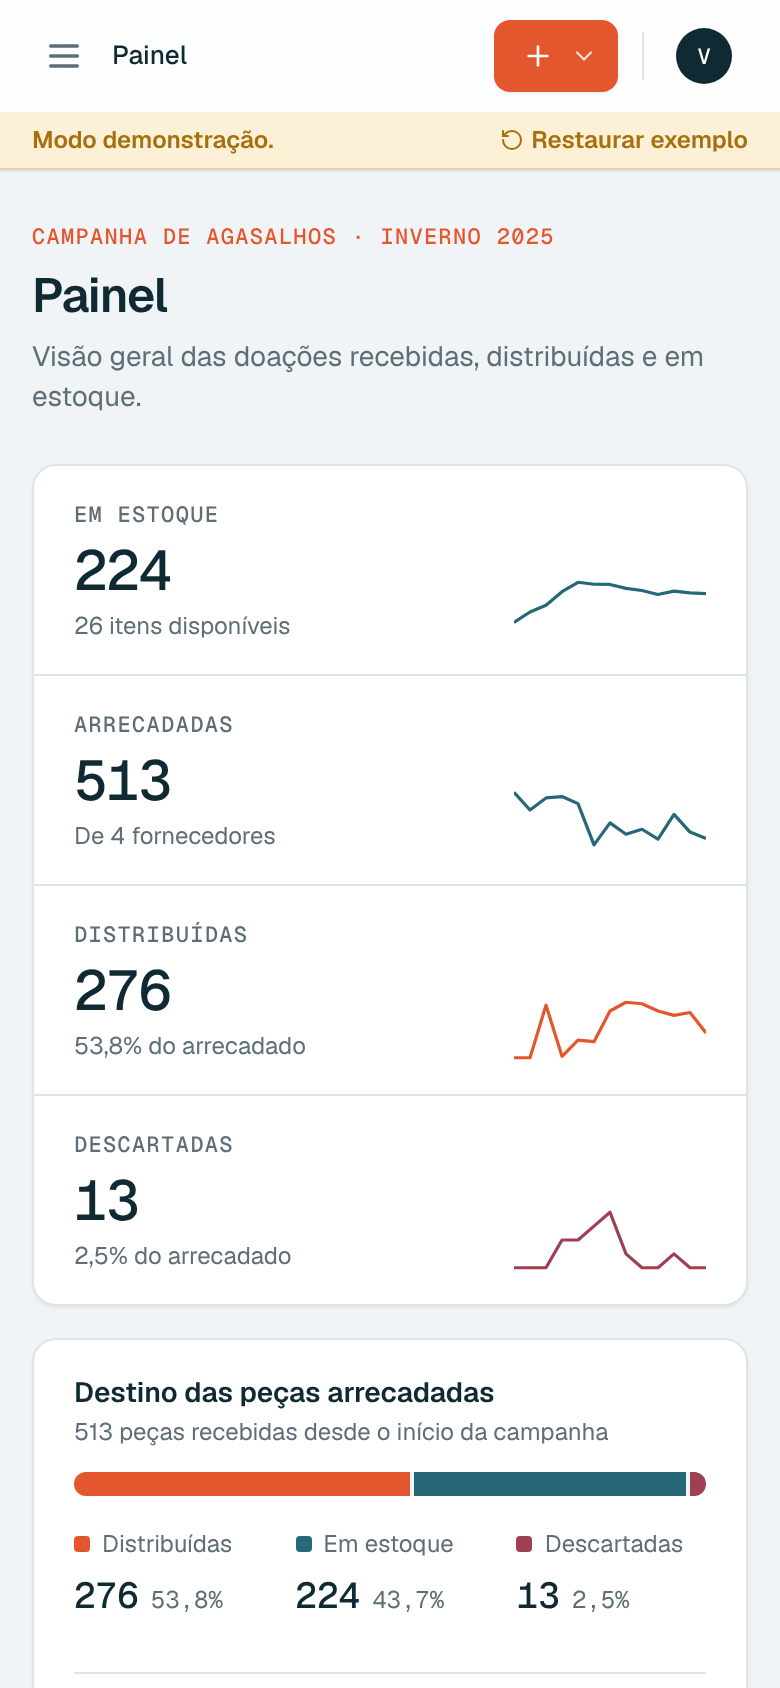
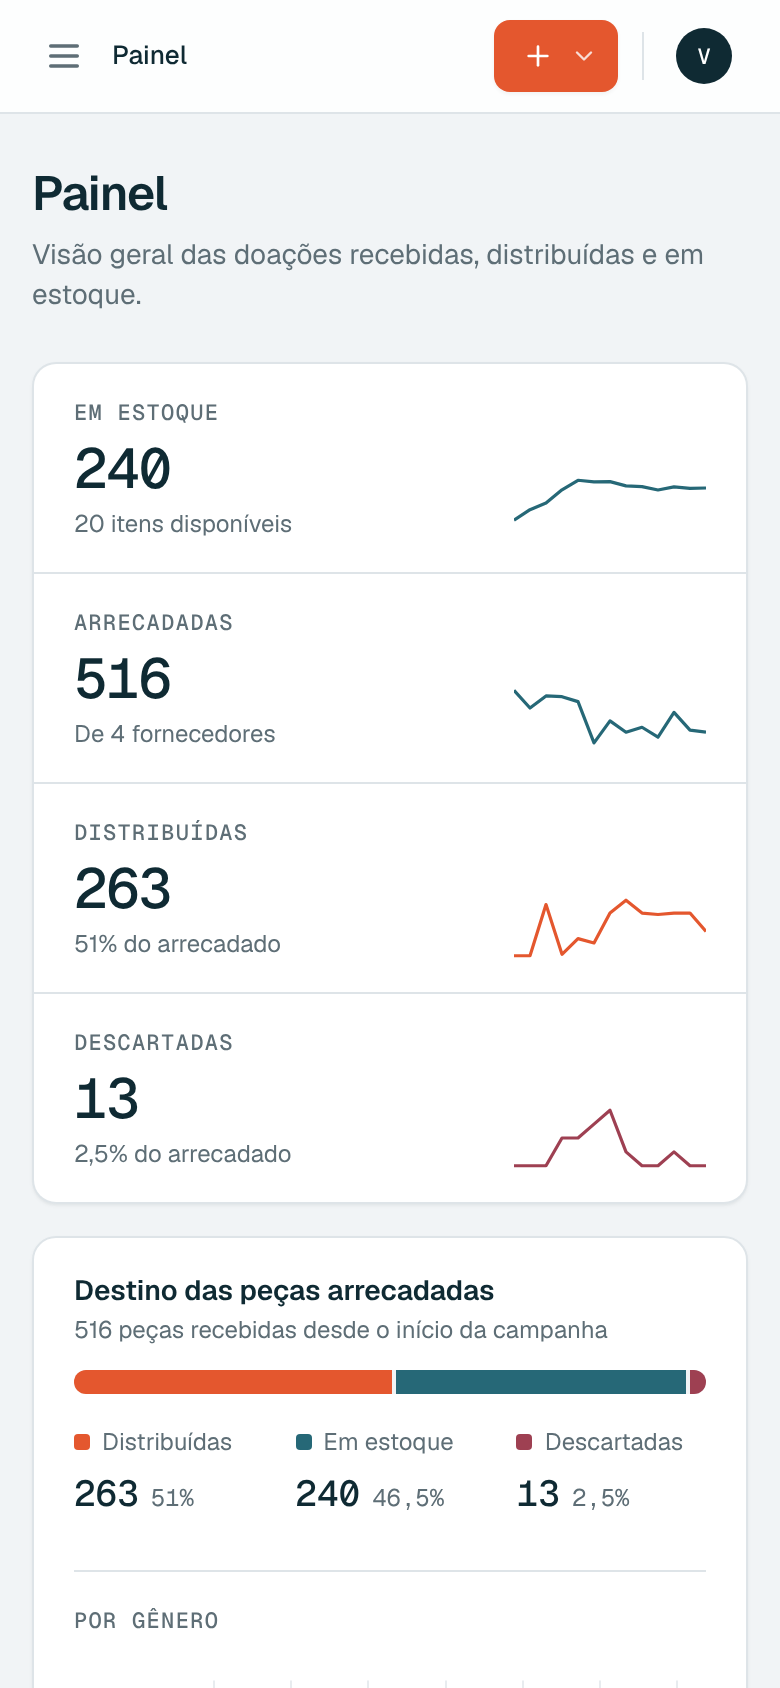
README no modelo do portfólio e capturas de tela atualizadas
Cabeçalho centralizado com capa, selos e links; sumário, destaques,
tecnologias com o porquê de cada escolha, estrutura comentada, diagramas
de como o sistema funciona, segurança, acessibilidade e assinatura.
As capturas mostram a versão atual (novos tamanhos, menu e topo).

Claude-Session: https://claude.ai/code/session_016y4j8LLPrQbPcBCuWRGPBY

diff --git a/README.md b/README.md
@@ -1,123 +1,226 @@
-# Logística que Aquece
+<div align="center">
 
-Sistema de controle de estoque da campanha de agasalhos **Logística que Aquece**, promovida pelo **SENAI** com a **Rede Feminina de Garopaba (SC)** no inverno de 2025.
+<img src="docs/telas/painel.png" alt="Painel do sistema: indicadores de estoque, arrecadação, distribuição e descarte, com gráficos por semana, gênero e tipo de peça" width="100%">
 
-O sistema registra as roupas recebidas como doação, controla o que sai para distribuição e o que é descartado na triagem, e mantém o estoque de cada peça sempre atualizado, com relatórios que dão transparência a todo o processo. Foi o primeiro sistema que desenvolvi.
+# Logística que Aquece · Controle de estoque
 
-![Painel](docs/telas/painel.png)
+**Campanha de agasalhos do SENAI com a Rede Feminina de Garopaba (SC)** · inverno de 2025
+
+Sistema que registra as roupas recebidas como doação, o que sai para distribuição e o que é descartado na triagem, mantendo o estoque de cada peça sempre atualizado e com relatórios que dão transparência a todo o processo. Foi o primeiro sistema que desenvolvi.
+
+[![Site no ar](https://img.shields.io/badge/site-logisticaqueaquece.vercel.app-E4572E?style=for-the-badge)](https://logisticaqueaquece.vercel.app)
+[![CI](https://img.shields.io/github/actions/workflow/status/higornovocardoso/Logisteca-que-Aquece/ci.yml?branch=main&label=testes&style=for-the-badge)](https://github.com/higornovocardoso/Logisteca-que-Aquece/actions/workflows/ci.yml)
+[![React + Supabase](https://img.shields.io/badge/React_+_Supabase-0F2A33?style=for-the-badge)](#tecnologias)
+
+[**Ver o site**](https://logisticaqueaquece.vercel.app) · [LinkedIn](https://www.linkedin.com/in/higornovocardoso) · [GitHub](https://github.com/higornovocardoso)
+
+</div>
 
 > **Sobre esta versão:** o código original se perdeu depois da campanha. Este repositório é uma **reconstrução** feita a partir da configuração original do projeto, de capturas de tela do sistema usado na campanha e das funcionalidades que ele tinha, agora com melhorias e um visual novo.
 
-## Funcionalidades
+---
 
-**Operação**
-- **Entradas:** registro das doações por tipo de peça, tamanho, gênero, quantidade, fornecedor e responsável. A opção *Continuar registrando* agiliza o lançamento de várias peças em sequência na mesa de triagem.
-- **Saídas:** retiradas para distribuição, com responsável. O sistema impede retirar mais peças do que há em estoque.
-- **Descartes:** peças sem condições de uso, com o motivo (rasgada, manchada, com mofo…).
-- **Estoque:** saldo de cada item com código próprio (ex.: `CAS-F-M` = casaco feminino M), filtros, alertas de estoque baixo e esgotado, e atalhos para registrar a saída ou o descarte direto da linha.
-- **Registro rápido:** botão *Registrar* em todas as telas e atalhos de teclado <kbd>E</kbd>, <kbd>S</kbd> e <kbd>D</kbd>.
+## Sumário
 
-**Gestão**
-- **Painel:** indicadores com tendência semanal, o destino de todas as peças arrecadadas (distribuídas, em estoque e descartadas), gráficos por tipo, gênero, fornecedor e motivo de descarte, estoque crítico e últimos registros.
-- **Relatórios:** movimentações, resumo por tipo de peça, posição de estoque e doações por fornecedor, com filtro de período e exportação em **PDF**, **Excel** e **CSV**.
-- **Meu perfil:** cada usuário, administrador ou operador, altera o próprio nome, o nome de usuário usado no login e a senha (essas duas últimas confirmando a senha atual).
-- **Administração:** usuários com perfil (*Administrador* ou *Operador*), registro de todas as atividades (quem fez o quê e quando), backup em JSON, importação de backup e limpeza dos dados para uma nova campanha.
+- [Destaques](#destaques)
+- [Capturas de tela](#capturas-de-tela)
+- [Tecnologias](#tecnologias)
+- [Estrutura do projeto](#estrutura-do-projeto)
+- [Como funciona](#como-funciona)
+- [Rodando localmente](#rodando-localmente)
+- [Conectando ao Supabase](#conectando-ao-supabase)
+- [Qualidade e automação](#qualidade-e-automação)
+- [Segurança](#segurança)
+- [Acessibilidade e desempenho](#acessibilidade-e-desempenho)
 
-**Segurança**
-- Login com no máximo 5 tentativas a cada 15 minutos, com bloqueio temporário e contagem regressiva.
-- Senhas guardadas apenas como hash (PBKDF2 no modo demonstração e bcrypt no Supabase).
-- Permissões por perfil: operadores registram, administradores também excluem registros, gerenciam usuários e dados.
-- No Supabase, as regras ficam no próprio banco: políticas de acesso (RLS) e gatilhos que impedem estoque negativo, garantem a autoria do registro de atividades e impedem que alguém mude o próprio perfil de acesso.
-- O autor e o horário de cada registro são definidos pelo servidor; contas criadas fora do sistema ficam sem acesso até um administrador liberar.
-- Exportações em CSV neutralizam fórmulas de planilha, e backups são validados com as mesmas regras do banco antes da importação.
-- Cabeçalhos de segurança na Vercel: Content-Security-Policy, HSTS, Permissions-Policy e proteção contra iframes.
+## Destaques
+
+- **Entradas, saídas e descartes.** Cada doação é registrada por tipo de peça, tamanho (Infantil, PP, P, M, G e GG; "Único" para acessórios), gênero, quantidade, fornecedor e quem recebeu. Saídas não passam do que há em estoque, e descartes guardam o motivo (rasgado, manchado, com mofo…).
+- **Estoque sempre certo.** O saldo de cada peça é calculado a partir das movimentações, com código próprio (`CAS-F-M` = casaco feminino M), alertas de estoque baixo e esgotado e atalhos para registrar a saída direto da linha.
+- **Registro rápido.** O botão *Registrar* está em todas as telas, as teclas <kbd>E</kbd>, <kbd>S</kbd> e <kbd>D</kbd> abrem cada formulário, <kbd>/</kbd> leva à busca e *Continuar registrando* agiliza a mesa de triagem.
+- **Painel.** Indicadores com tendência semanal, o destino de todas as peças arrecadadas, gráficos por tipo, gênero, fornecedor e motivo de descarte, estoque crítico e últimos registros.
+- **Relatórios.** Movimentações, resumo por tipo de peça, posição de estoque e doações por fornecedor, com filtro de período e exportação em **PDF**, **Excel** e **CSV**.
+- **Administração.** Usuários com perfil (*Administrador* ou *Operador*), registro de tudo o que foi feito (quem, o quê e quando), backup em JSON e limpeza dos dados para uma nova campanha.
+- **Meu perfil.** Cada pessoa altera o próprio nome, o nome de usuário e a senha; o administrador também troca o nome de usuário de qualquer um.
+- **Dois modos.** Conectado ao Supabase em produção ou, sem configurar nada, em modo demonstração com os dados de exemplo da campanha salvos no navegador.
+
+## Capturas de tela
 
 | Estoque | Relatórios |
 | --- | --- |
-| ![Estoque](docs/telas/estoque.png) | ![Relatórios](docs/telas/relatorios.png) |
+| <img src="docs/telas/estoque.png" alt="Tabela de estoque com código, peça, tamanho, entradas, saídas, saldo e situação de cada item"> | <img src="docs/telas/relatorios.png" alt="Tela de relatórios com filtro de período e exportação em PDF, Excel e CSV"> |
 
 | Registro de entrada | Administração |
 | --- | --- |
-| ![Registro de entrada](docs/telas/registro.png) | ![Administração](docs/telas/administracao.png) |
+| <img src="docs/telas/registro.png" alt="Formulário de registro de entrada de doação"> | <img src="docs/telas/administracao.png" alt="Gestão de usuários com perfil e situação de cada pessoa"> |
 
 | Tema escuro | Login |
 | --- | --- |
-| ![Painel no tema escuro](docs/telas/painel-escuro.png) | ![Login](docs/telas/login.png) |
+| <img src="docs/telas/painel-escuro.png" alt="Painel no tema escuro"> | <img src="docs/telas/login.png" alt="Tela de login com a logo do SENAI"> |
 
-<p align="center"><img src="docs/telas/celular.png" alt="Painel no celular" width="280"></p>
+<p align="center">
+  <img src="docs/telas/celular.png" alt="Painel no celular" width="300">
+</p>
 
 ## Tecnologias
 
-| Camada           | Ferramentas                                                      |
-| ---------------- | ---------------------------------------------------------------- |
-| Front-end        | React 18, TypeScript, Vite, React Router                         |
-| Interface        | Tailwind CSS, Framer Motion, Lucide Icons, fontes Geist          |
-| Back-end / dados | Supabase (PostgreSQL, Auth, RLS)                                 |
-| Gráficos         | Chart.js, react-chartjs-2                                        |
-| Relatórios       | jsPDF + AutoTable (PDF), SheetJS (Excel), PapaParse (CSV)        |
-| Validação        | Zod                                                              |
-| Qualidade        | ESLint, TypeScript (`strict`), Vitest, GitHub Actions            |
+| Camada | Escolha | Por quê |
+| --- | --- | --- |
+| Interface | React 18 + TypeScript (`strict`), Vite e React Router | Telas tipadas de ponta a ponta e build rápido, com cada página carregada sob demanda |
+| Visual | Tailwind CSS com tokens de cor próprios, fontes Geist e Lucide Icons | Tema claro e escuro a partir das mesmas variáveis; números alinhados em fonte mono |
+| Movimento | Framer Motion | Transições curtas e com propósito, desligadas quando o sistema pede menos movimento |
+| Dados | [Supabase](https://supabase.com): PostgreSQL, Auth, RLS e Edge Function | As regras ficam no próprio banco, não só na tela |
+| Gráficos | Chart.js com react-chartjs-2 | Leve e fácil de adaptar às cores do tema |
+| Relatórios | jsPDF + AutoTable, SheetJS e PapaParse | PDF, Excel e CSV gerados no navegador, carregados só quando alguém exporta |
+| Validação | Zod | As mesmas regras nos formulários, no backup e no banco |
+| Hospedagem | [Vercel](https://vercel.com) | Publica sozinha a cada push na `main` |
+| Qualidade | ESLint, Vitest e GitHub Actions | Lint, testes e build a cada push e pull request |
 
-## Como rodar
+## Estrutura do projeto
 
-Pré-requisito: [Node.js](https://nodejs.org/) 20 ou superior.
-
-```bash
-npm install
-npm run dev
+```text
+.
+├── src/
+│   ├── App.tsx                 # rotas e provedores (tema, avisos, sessão)
+│   ├── paginas.ts              # páginas carregadas sob demanda e pré-carregamento
+│   ├── components/
+│   │   ├── Layout.tsx          # menu lateral, topo, menu do usuário e transições
+│   │   ├── Registro.tsx        # formulários de entrada, saída e descarte (atalhos E, S e D)
+│   │   ├── MeuPerfil.tsx       # nome, nome de usuário e senha da própria conta
+│   │   └── ui.tsx              # modal, campos, abas, esqueletos e números animados
+│   ├── pages/                  # Login, Painel, Entradas/Saídas/Descartes, Estoque, Relatórios, Administração
+│   ├── contexts/               # sessão, estoque, tema e avisos
+│   ├── data/
+│   │   ├── fonte.ts            # contrato comum às duas fontes de dados
+│   │   ├── fonteSupabase.ts    # produção: Supabase
+│   │   ├── fonteLocal.ts       # modo demonstração: navegador
+│   │   ├── servico.ts          # registro de atividades e limite de tentativas de login
+│   │   └── seed.ts             # dados de exemplo da campanha
+│   └── lib/                    # regras de estoque, validação, relatórios, backup e códigos dos itens
+├── supabase/
+│   ├── schema.sql              # tabelas, gatilhos e políticas de acesso (RLS)
+│   ├── functions/gerenciar-usuarios/  # Edge Function: criar, remover e renomear usuários, redefinir senha
+│   └── migracoes/              # mudanças aplicadas a bancos já existentes
+├── docs/telas/                 # capturas usadas neste README
+├── .github/workflows/ci.yml    # lint, testes e build a cada push
+└── vercel.json                 # cabeçalhos de segurança e rotas
 ```
 
-Acesse `http://localhost:5173`.
+## Como funciona
 
-### Modo demonstração
+### Duas fontes de dados, uma interface
 
-Sem configurar nada, o sistema roda em **modo demonstração**, com os dados de exemplo da campanha salvos no próprio navegador:
+```mermaid
+flowchart LR
+    T[Telas] --> S[servico.ts<br/>atividades e limite de login]
+    S --> F{fonte de dados}
+    F -->|.env preenchido| SB[(Supabase<br/>PostgreSQL + RLS)]
+    F -->|sem .env| LS[(navegador<br/>modo demonstração)]
+    SB -.-> EF[Edge Function<br/>gerenciar-usuarios]
+```
 
-| Perfil        | Usuário     | Senha       |
-| ------------- | ----------- | ----------- |
+As telas não sabem de onde vêm os dados: falam com um contrato único (`FonteDeDados`). Com as variáveis do Supabase preenchidas, tudo vai para o banco; sem elas, o sistema roda inteiro no navegador com os dados de exemplo da campanha. No meio, `servico.ts` registra cada ação no histórico e limita as tentativas de login.
+
+### O saldo nunca fica negativo
+
+O estoque não é um número guardado: é a soma das entradas menos as saídas e os descartes de cada peça, calculada pela view `estoque`. Um gatilho no banco confere o saldo depois de cada registro e recusa qualquer saída, descarte ou exclusão que o deixaria negativo, mesmo que alguém tente pela API, sem passar pela tela.
+
+### Quem pode o quê
+
+| Ação | Operador | Administrador |
+| --- | :---: | :---: |
+| Registrar entradas, saídas e descartes | ✓ | ✓ |
+| Consultar estoque, painel e relatórios | ✓ | ✓ |
+| Alterar o próprio nome, nome de usuário e senha | ✓ | ✓ |
+| Excluir registros | | ✓ |
+| Criar, editar e remover usuários | | ✓ |
+| Ver o registro de atividades, fazer backup e limpar dados | | ✓ |
+
+Cada linha vale também no banco, por políticas de RLS e gatilhos: esconder um botão nunca é a única proteção.
+
+## Rodando localmente
+
+Pré-requisito: [Node.js](https://nodejs.org) 20 ou mais novo.
+
+```bash
+git clone https://github.com/higornovocardoso/Logisteca-que-Aquece.git
+cd Logisteca-que-Aquece
+npm install
+npm run dev             # abre em http://localhost:5173
+```
+
+Sem configurar nada, o sistema abre em **modo demonstração**, com os dados de exemplo da campanha salvos no navegador:
+
+| Perfil | Usuário | Senha |
+| --- | --- | --- |
 | Administrador | `Visitante` | `Visitante` |
-| Operador      | `Marlene`   | `Marlene`   |
+| Operador | `Marlene` | `Marlene` |
 
-Em *Administração › Dados e backup*, o botão *Restaurar* desfaz as alterações.
+O botão *Restaurar exemplo* desfaz as alterações. O site publicado usa o banco de verdade, com acesso restrito à equipe.
 
-### Com o Supabase
+| Comando | O que faz |
+| --- | --- |
+| `npm run dev` | Servidor de desenvolvimento |
+| `npm run build` | Verificação de tipos e build de produção |
+| `npm run preview` | Serve o build de produção |
+| `npm test` | Testes automatizados (Vitest) |
+| `npm run lint` | Análise estática (ESLint) |
 
-1. Crie um projeto no [Supabase](https://supabase.com/) e execute o script [`supabase/schema.sql`](supabase/schema.sql) no SQL Editor.
-2. Publique a Edge Function de usuários: `supabase functions deploy gerenciar-usuarios`. Ela cria, remove e redefine a senha de usuários com a chave de serviço, que fica só no servidor.
+## Conectando ao Supabase
+
+1. Crie um projeto no [Supabase](https://supabase.com) e execute [`supabase/schema.sql`](supabase/schema.sql) no SQL Editor.
+2. Publique a Edge Function de usuários: `supabase functions deploy gerenciar-usuarios`. Ela usa a chave de serviço, que fica só no servidor.
 3. Em **Authentication › Sign In / Providers**, desative *Allow new users to sign up*: as contas são criadas apenas pelo sistema.
 4. Em **Authentication › Users**, crie o primeiro usuário com o e-mail `seunome@logisticaqueaquece.local` e libere-o como administrador no SQL Editor:
    ```sql
    update public.perfis set perfil = 'Administrador', ativo = true, nome = 'Seu Nome' where usuario = 'seunome';
    ```
-5. Copie o `.env.example` para `.env` e preencha a URL e a chave pública (*publishable* ou `anon`) do projeto. Ao publicar na Vercel, troque também o endereço do Supabase na `Content-Security-Policy` do [`vercel.json`](vercel.json).
-6. Entre no sistema usando só `seunome` como nome de usuário. Os demais usuários são criados em *Administração › Usuários*.
+5. Copie o `.env.example` para `.env` e preencha a URL e a chave pública (*publishable* ou `anon`). O `.env` não é versionado.
+6. Entre usando só `seunome` como nome de usuário. As demais pessoas são cadastradas em *Administração › Usuários*.
 
-## Scripts
+Ao publicar na Vercel, cadastre as mesmas variáveis no painel do projeto e troque o endereço do Supabase na `Content-Security-Policy` do [`vercel.json`](vercel.json).
 
-| Comando             | Descrição                                   |
-| ------------------- | ------------------------------------------- |
-| `npm run dev`       | Servidor de desenvolvimento                 |
-| `npm run build`     | Verificação de tipos e build de produção    |
-| `npm run preview`   | Pré-visualização do build                   |
-| `npm test`          | Testes automatizados (Vitest)               |
-| `npm run lint`      | Análise estática com ESLint                 |
-| `npm run typecheck` | Verificação de tipos com TypeScript         |
+## Qualidade e automação
 
-## Estrutura
-
-```
-src/
-├── components/   # Layout, formulários de registro, rotas protegidas e componentes de interface
-├── contexts/     # Autenticação, estoque, tema e avisos
-├── data/         # Fontes de dados (Supabase e modo demonstração), serviço com registro de atividades
-├── lib/          # Regras de estoque, validação, relatórios, backup, limite de login e gráficos
-└── pages/        # Login, Painel, Entradas/Saídas/Descartes, Estoque, Relatórios e Administração
-supabase/
-├── schema.sql    # Tabelas, gatilhos, políticas de acesso (RLS) e funções de permissão
-└── functions/
-    └── gerenciar-usuarios/   # Edge Function: criar, remover e redefinir senha de usuários
+```mermaid
+flowchart LR
+    A[push na main] --> B[Vercel publica o site]
+    A --> C[GitHub Actions]
+    P[pull request] --> C
+    C --> D[ESLint]
+    C --> E[Testes com Vitest]
+    C --> F[Verificação de tipos e build]
 ```
 
-## Autor
+Os testes (`src/**/*.test.ts`) conferem, entre outras coisas, que:
 
-**Higor Cardoso**: [GitHub](https://github.com/higornovocardoso)
+- o saldo é calculado certo e saídas acima do estoque são recusadas;
+- operadores não excluem registros nem administram usuários;
+- senhas nunca ficam guardadas em texto puro e o login bloqueia após 5 tentativas;
+- trocar nome, nome de usuário e senha funciona e exige a senha atual;
+- backups adulterados são recusados antes de apagar qualquer dado, e backups antigos são convertidos para os tamanhos atuais;
+- relatórios, códigos dos itens e validações dos formulários dão o resultado esperado.
+
+## Segurança
+
+O sistema passou por uma rodada de testes de ataque contra o banco, a Edge Function e a interface. O que ficou valendo:
+
+- **Regras no banco.** Políticas de RLS em todas as tabelas, funções de permissão em um schema que a API não expõe e gatilhos que impedem estoque negativo, mudança do próprio perfil de acesso e registros em nome de outra pessoa ou com data retroativa.
+- **Contas.** Só o sistema cria contas: quem se cadastrar por fora fica sem acesso até um administrador liberar. Senhas com no mínimo 8 caracteres, guardadas com bcrypt no Supabase (PBKDF2 no modo demonstração).
+- **Login.** Até 5 tentativas a cada 15 minutos na tela, além do limite do próprio Supabase.
+- **Exportações e backups.** O CSV neutraliza fórmulas de planilha, e backups são validados com as mesmas regras do banco antes de qualquer alteração.
+- **Site.** Cabeçalhos em [`vercel.json`](vercel.json): `Content-Security-Policy`, HSTS, `Permissions-Policy`, `X-Frame-Options` e `nosniff`. Nenhum segredo vai para o navegador; a chave de serviço existe só dentro da Edge Function.
+
+## Acessibilidade e desempenho
+
+- **Carregamento.** A tela de login baixa menos da metade do JavaScript do sistema. As demais páginas são pré-carregadas enquanto o navegador está ocioso, e PDF, Excel e gráficos só chegam quando são usados.
+- **Menos movimento.** Com "reduzir movimento" ativado no sistema, contagens, transições e entradas em cascata são desligadas.
+- **Teclado.** Foco visível em tudo que é clicável, atalhos para os registros e para a busca, e janelas que fecham com <kbd>Esc</kbd>.
+- **Leitores de tela.** Números animados têm o valor final disponível para leitores de tela, e a barra com o destino das peças traz o resumo em texto.
+- **Celular.** Todas as telas funcionam no celular, com menu lateral recolhível e janelas que sobem da parte de baixo.
+
+---
+
+<div align="center">
+Feito por <a href="https://www.linkedin.com/in/higornovocardoso">Higor Cardoso</a> · Garopaba, SC
+</div>
